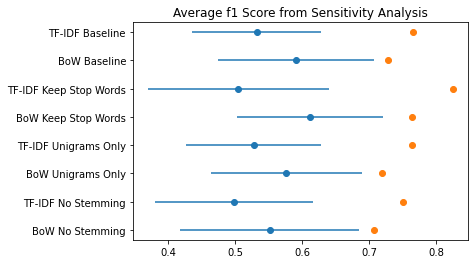
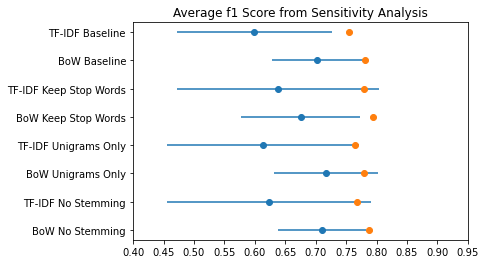
Tweaking of pre-processing decisions

diff --git a/MachineLearning/modules/preprocessing_decisions.py b/MachineLearning/modules/preprocessing_decisions.py
@@ -18,10 +18,12 @@ from sklearn.svm import SVC
 from sklearn.model_selection import cross_val_score, train_test_split
 from sklearn.metrics import (f1_score, precision_score, 
                              recall_score, confusion_matrix, accuracy_score,
-                             confusion_matrix, ConfusionMatrixDisplay)
+                             confusion_matrix, ConfusionMatrixDisplay, roc_auc_score)
 import sys
 import pandas as pd
 import matplotlib.pyplot as plt
+import numpy as np
+import sklearn
 
 from modules.svc_gridsearch import svc_gridsearch_sens
 from modules.nltk_stemmer import StemmedTfidfVectorizer, StemmedCountVectorizer
@@ -79,14 +81,14 @@ def svc_sensitivity(df, scores):
         # No Stemming
         TfidfVectorizer(
             norm='l2', encoding='utf-8', 
-            ngram_range = (1,1), stop_words = 'english', 
+            ngram_range = (1,2), stop_words = 'english', 
             max_df = .8, min_df = 3, 
             max_features=60000, 
             strip_accents = 'ascii', lowercase=True
             ),
         
         CountVectorizer(
-            encoding='utf-8', ngram_range = (1,1), 
+            encoding='utf-8', ngram_range = (1,2), 
             stop_words = 'english', 
             max_df = .8, min_df = 3, 
             max_features=60000, 
@@ -123,9 +125,9 @@ def svc_sensitivity(df, scores):
             SVC_BestParams = svc_gridsearch_sens(score, X_train, y_train)
             
             #Run cross validation using the best parameters.
-            clf = SVC(**SVC_BestParams).fit(X_train, y_train)
+            clf = SVC(**SVC_BestParams, class_weight = {0:.1, 1:.9}).fit(X_train, y_train)
             cv_scores = cross_val_score(
-                clf, X_train, y_train, cv = 5, scoring = score
+                clf, X_train, y_train, cv = 10, scoring = score
                 )
             cv_mean.append(cv_scores.mean())
             cv_std.append(cv_scores.std())
@@ -150,6 +152,7 @@ def svc_sensitivity(df, scores):
     return([vec_names, cv_mean,cv_std, Out_score, score_name])
 
 # Re-import files and merge them after hand-coding
+
 import re
 
 
@@ -171,30 +174,33 @@ for filename in res:
 df = df[df['code'].notna()]
 df_test = df_test[~df_test.par_number.isin(df.par_number)]
 
-vec = StemmedTfidfVectorizer(
-    norm='l2', encoding='utf-8', 
-    stop_words='english', ngram_range = (1,3),
-    max_df = .8, min_df = 1, max_features=60000,
+vec = StemmedCountVectorizer(
+    #norm='l2',
+    encoding='utf-8', 
+    stop_words='english', ngram_range = (1,2),
+    max_df = .8, min_df = 3, max_features=60000,
     strip_accents = 'ascii', lowercase=True
     )
 
 features = vec.fit_transform(df.paragraphs).toarray()
 labels = df.code
 X_train, X_test, y_train, y_test = train_test_split(
-    features, labels, random_state = 1111,test_size=0.3
+    features, labels, random_state = 1234,test_size=0.3
     )
 
 score = 'f1'
 SVC_BestParams = svc_gridsearch_sens(score, X_train, y_train)
 
-clf = SVC(**SVC_BestParams, class_weight = "balanced").fit(X_train, y_train)
+clf = SVC(**SVC_BestParams, class_weight = {0:.1, 1:.9}).fit(X_train, y_train)
 cv_scores = cross_val_score(
     clf, X_train, y_train, cv = 10, scoring = score
     )
 cv_scores
 pred1 = clf.predict(X_test)
-accuracy_score(y_test, pred1)
-f1_score(y_test, pred1, average="macro")
+print(accuracy_score(y_test, pred1))
+print(f1_score(y_test, pred1, average="macro"))
+print(precision_score(y_test, pred1, average="macro"))
+print(recall_score(y_test, pred1, average="macro"))
 cm = confusion_matrix(y_test, pred1)
 cm_display = ConfusionMatrixDisplay(confusion_matrix = cm, display_labels = [False, True])
 
@@ -217,6 +223,7 @@ def preprocess_plots(preprocessing_scores, scores):
         plt.plot(for_plot[3],x , linestyle = 'None', marker = 'o')
         plt.gca().invert_yaxis()
         plt.yticks(ticks = x, labels = for_plot[0])
+        plt.xticks(np.arange(.4, 1, .05))
         plt.title('Average ' + score + ' Score from Sensitivity Analysis')
         plt.savefig(
             'Plots/' + score +'_sensitivity.png', 

diff --git a/MachineLearning/Modules/SVC_GridSearch.py b/MachineLearning/Modules/SVC_GridSearch.py
@@ -42,7 +42,7 @@ def svc_gridsearch_sens(score, X_train, y_train,
                             ]):
     print("# Tuning hyper-parameters for %s" % score)
     clf = GridSearchCV(
-        SVC(), tuned_parameters, scoring='%s_macro' % score, cv = 10
+        SVC(class_weight = {0:.1, 1:.9}), tuned_parameters, scoring='%s_macro' % score, cv = 10
     )
     clf.fit(X_train, y_train)
     svc_best_params = clf.best_params_

diff --git a/MachineLearning/MAC_SVC.py b/MachineLearning/MAC_SVC.py
@@ -50,7 +50,7 @@ df = df[df['code'].notna()]
 df_test = df_test[~df_test.par_number.isin(df.par_number)]
 
 #Run sensitivity analysis
-scores = ['f1', 'precision']
+scores = ['f1']
 preprocessing_scores = svc_sensitivity(df, scores)
 preprocess_plots(preprocessing_scores, scores)
 
